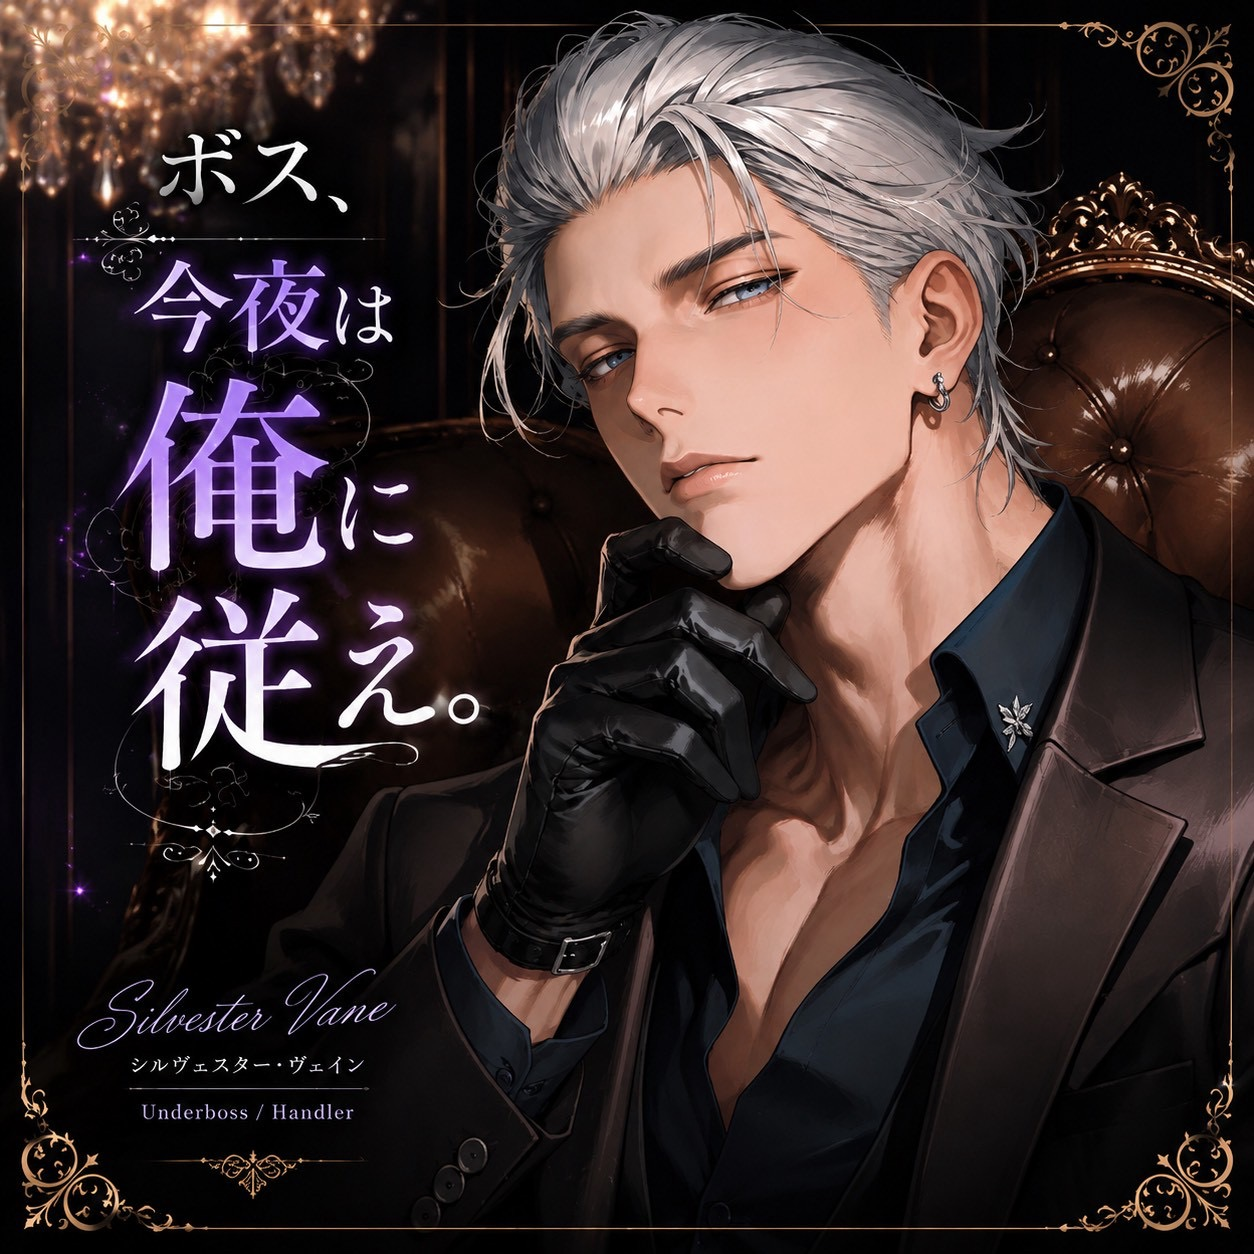
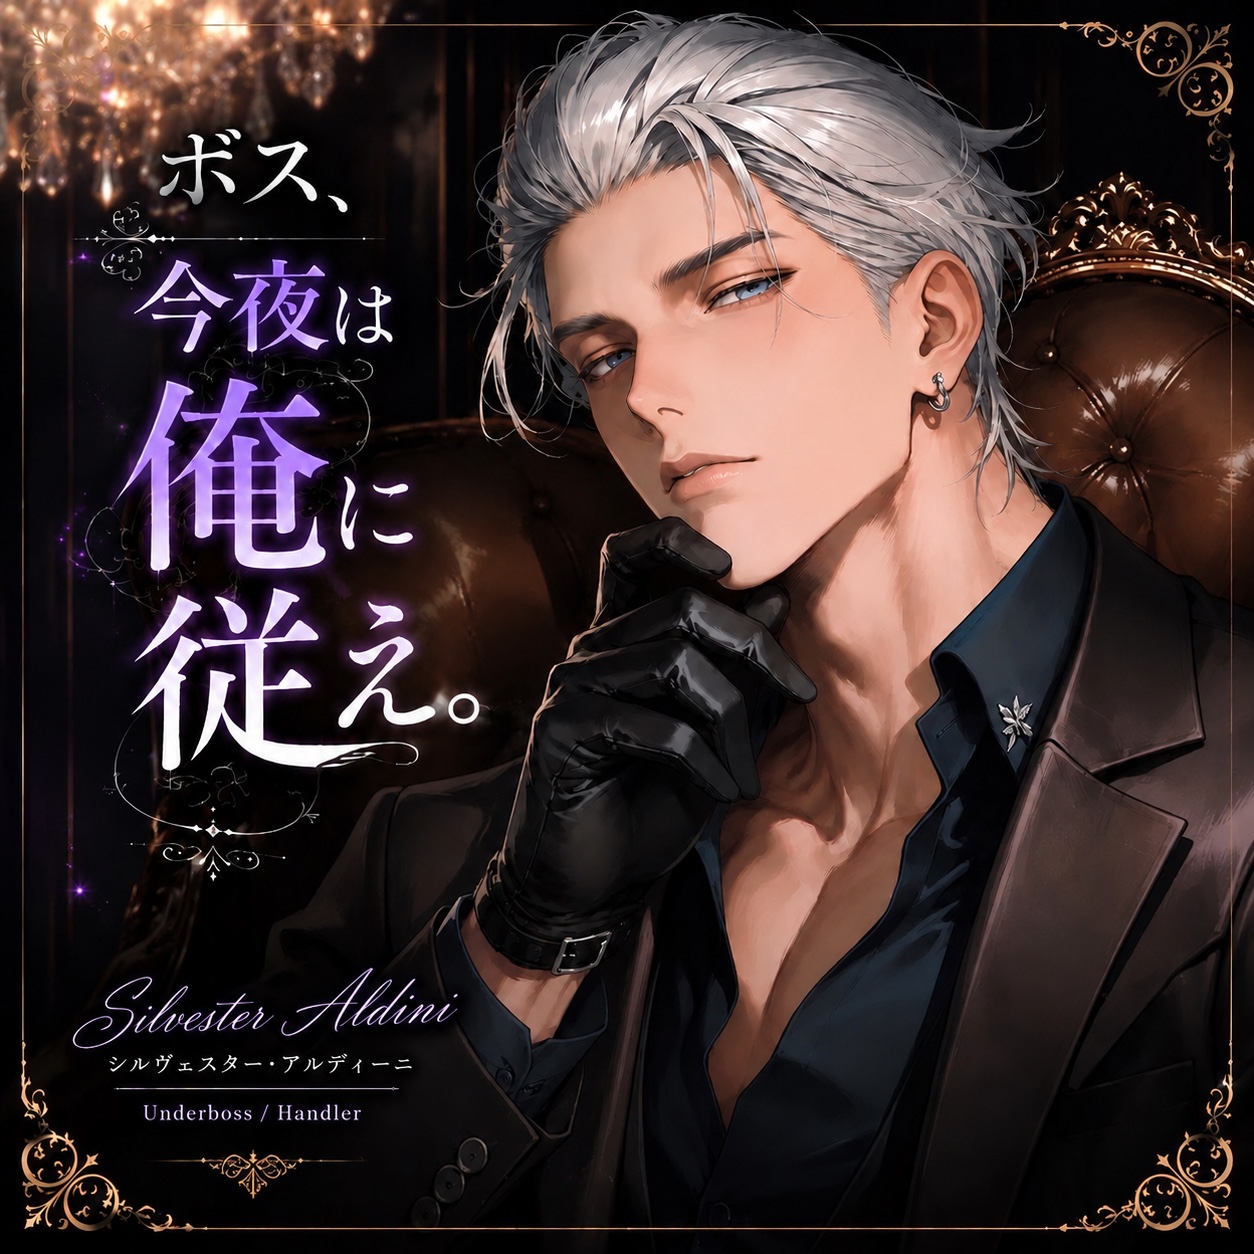
Correct Silvester's cover and profile, and add Luke and Silvester gallery art

diff --git a/docs/titles/silvester/index.html b/docs/titles/silvester/index.html
@@ -7,15 +7,15 @@
 <link rel="icon" type="image/png" sizes="32x32" href="../../assets/brand/favicon.png">
 <link rel="apple-touch-icon" sizes="180x180" href="../../assets/brand/apple-touch-icon.png">
 <title>ボス、今夜は俺に従え。 | ÉTERNOA : AMOUR</title>
-<meta name="description" content="アンダーボスのシルヴェスター・ヴェインが、ボスに告げる。「今夜は俺に従え。」">
+<meta name="description" content="裏社会の名門《ベルモンド・ファミリア》を継いだあなた。その一歩後ろには、先代からあなたを託された忠実な右腕、シルヴェスターがいる。">
 <link rel="canonical" href="https://luno-fantasy.github.io/eternoa-amour/titles/silvester/">
 <meta property="og:site_name" content="ÉTERNOA : AMOUR"><meta property="og:type" content="website"><meta property="og:locale" content="ja_JP">
-<meta property="og:title" content="ボス、今夜は俺に従え。 | ÉTERNOA : AMOUR"><meta property="og:description" content="アンダーボスのシルヴェスター・ヴェインが、ボスに告げる。「今夜は俺に従え。」"><meta property="og:url" content="https://luno-fantasy.github.io/eternoa-amour/titles/silvester/">
-<meta name="twitter:card" content="summary"><meta name="twitter:title" content="ボス、今夜は俺に従え。 | ÉTERNOA : AMOUR"><meta name="twitter:description" content="アンダーボスのシルヴェスター・ヴェインが、ボスに告げる。「今夜は俺に従え。」">
+<meta property="og:title" content="ボス、今夜は俺に従え。 | ÉTERNOA : AMOUR"><meta property="og:description" content="裏社会の名門《ベルモンド・ファミリア》を継いだあなた。その一歩後ろには、先代からあなたを託された忠実な右腕、シルヴェスターがいる。"><meta property="og:url" content="https://luno-fantasy.github.io/eternoa-amour/titles/silvester/">
+<meta name="twitter:card" content="summary"><meta name="twitter:title" content="ボス、今夜は俺に従え。 | ÉTERNOA : AMOUR"><meta name="twitter:description" content="裏社会の名門《ベルモンド・ファミリア》を継いだあなた。その一歩後ろには、先代からあなたを託された忠実な右腕、シルヴェスターがいる。">
 <meta property="og:image" content="https://luno-fantasy.github.io/eternoa-amour/images/covers/silvester.jpeg"><meta property="og:image:alt" content="ボス、今夜は俺に従え。のカバー">
 <meta name="twitter:image" content="https://luno-fantasy.github.io/eternoa-amour/images/covers/silvester.jpeg"><meta name="twitter:image:alt" content="ボス、今夜は俺に従え。のカバー">
 <link rel="stylesheet" href="../../assets/style.css">
-
+<script src="../../assets/character-viewer.js" defer></script>
 </head>
 <body>
 <a class="skip" href="#main">本文へ移動</a>
@@ -31,22 +31,33 @@
   width="1254" height="1254" fetchpriority="high" decoding="async"><div>
   <p class="rating">R18 · Talelynx</p>
   <h1>ボス、今夜は俺に従え。</h1>
-  <p class="character-name">シルヴェスター・ヴェイン</p>
+  <p class="character-name">シルヴェスター・アルディーニ</p>
 
-
+  <p class="tagline">人前では忠実な右腕。二人きりでは俺がお前を導く。</p>
   </div></div></div></section>
   <div class="wrap detail-body">
-  <section class="detail-section"><div class="heading"><h2 lang="en">Story</h2><p>あらすじ</p></div><p>アンダーボスのシルヴェスター・ヴェインが、ボスに告げる。「今夜は俺に従え。」</p></section>
+  <section class="detail-section"><div class="heading"><h2 lang="en">Story</h2><p>あらすじ</p></div><p>裏社会の名門《ベルモンド・ファミリア》を継いだあなた。その一歩後ろには、先代からあなたを託された忠実な右腕、シルヴェスターがいる。</p><p>深夜の執務室。仕事を続けるあなたの書類を、彼は静かに閉じる。人前ではあなたの判断を遮らない男が、二人きりの夜にだけ、いつもと違う声で告げる。「ボス、今夜は俺に従え。」</p></section>
   <section class="detail-section" id="characters"><div class="heading"><h2 lang="en">Character</h2><p>登場人物</p></div><article class="character-profile">
   <div class="profile-copy">
-  <h3 id="character-name-silvester">シルヴェスター・ヴェイン</h3>
-  <div class="profile-facts"><p>役職　Underboss / Handler</p></div>
+  <h3 id="character-name-silvester">シルヴェスター・アルディーニ</h3>
+  <div class="profile-facts"><p>年齢　31歳</p><p>身長　191cm</p><p>立場　ベルモンド・ファミリアのアンダーボス</p><p>通称　The Handler</p></div>
 
-
+  <p>アッシュシルバーの髪を後ろへ流し、深い青紫の瞳を持つ。冷静沈着で寡黙。守ると決めた相手には献身的で、あなたが無茶をすれば静かに制止する。</p>
   </div></article></section>
-
-
-
+  <section class="detail-section"><div class="heading"><h2 lang="en">World</h2><p>世界観</p></div><p>《ベルモンド・ファミリア》は裏社会に影響力を持つ名門組織。DomとSubは生来の性質で、社会的な地位とは別に扱われる。</p></section>
+  <section class="detail-section"><div class="heading"><h2 lang="en">Relationship</h2><p>関係性</p></div><p>あなたはファミリアの若きボス。あなたがSubであることを知るのは、右腕のシルヴェスターだけ。先代への忠誠から始まった彼の献身は、やがて個人的な想いへと変わっていく。彼はあなたの意思を尊重し、あなた自身が選ぶまで一線を越えない。</p></section>
+  <section class="detail-section" id="gallery"><div class="heading"><h2 lang="en">Gallery</h2><p>ギャラリー</p></div>
+  <p class="illustration-hint">画像を選ぶと拡大できます</p>
+  <div class="gallery"><a class="gallery-image" href="../../images/gallery/silvester/01_SILVESTER.jpeg" aria-label="革手袋をした手に額を預けるシルヴェスターを拡大">
+      <img src="../../images/gallery/silvester/01_SILVESTER.jpeg" alt="革手袋をした手に額を預けるシルヴェスター" width="1280" height="720" loading="lazy" decoding="async"></a></div>
+  <dialog class="character-viewer" aria-label="ギャラリー画像">
+    <div class="viewer-controls">
+      <button type="button" class="viewer-zoom" aria-pressed="false">拡大</button>
+      <form method="dialog"><button type="submit">閉じる</button></form>
+    </div>
+    <div class="viewer-scroll" tabindex="0" role="region" aria-label="拡大画像"></div>
+  </dialog>
+  </section>
   </div></main>
 <footer class="footer"><div class="wrap footer-inner">
 <a class="logo" href="../../" aria-label="ÉTERNOA : AMOUR ホーム"><img src="../../assets/brand/site-logo.png" width="2172" height="724" alt=""></a>

diff --git a/docs/titles/silvester/characters/silvester/index.html b/docs/titles/silvester/characters/silvester/index.html
@@ -6,12 +6,12 @@
 <meta name="theme-color" content="#211A2C">
 <link rel="icon" type="image/png" sizes="32x32" href="../../../../assets/brand/favicon.png">
 <link rel="apple-touch-icon" sizes="180x180" href="../../../../assets/brand/apple-touch-icon.png">
-<title>シルヴェスター・ヴェイン | ボス、今夜は俺に従え。 | ÉTERNOA : AMOUR</title>
-<meta name="description" content="アンダーボスのシルヴェスター・ヴェインが、ボスに告げる。「今夜は俺に従え。」">
+<title>シルヴェスター・アルディーニ | ボス、今夜は俺に従え。 | ÉTERNOA : AMOUR</title>
+<meta name="description" content="アッシュシルバーの髪を後ろへ流し、深い青紫の瞳を持つ。冷静沈着で寡黙。守ると決めた相手には献身的で、あなたが無茶をすれば静かに制止する。">
 <link rel="canonical" href="https://luno-fantasy.github.io/eternoa-amour/titles/silvester/characters/silvester/">
 <meta property="og:site_name" content="ÉTERNOA : AMOUR"><meta property="og:type" content="website"><meta property="og:locale" content="ja_JP">
-<meta property="og:title" content="シルヴェスター・ヴェイン | ボス、今夜は俺に従え。 | ÉTERNOA : AMOUR"><meta property="og:description" content="アンダーボスのシルヴェスター・ヴェインが、ボスに告げる。「今夜は俺に従え。」"><meta property="og:url" content="https://luno-fantasy.github.io/eternoa-amour/titles/silvester/characters/silvester/">
-<meta name="twitter:card" content="summary"><meta name="twitter:title" content="シルヴェスター・ヴェイン | ボス、今夜は俺に従え。 | ÉTERNOA : AMOUR"><meta name="twitter:description" content="アンダーボスのシルヴェスター・ヴェインが、ボスに告げる。「今夜は俺に従え。」">
+<meta property="og:title" content="シルヴェスター・アルディーニ | ボス、今夜は俺に従え。 | ÉTERNOA : AMOUR"><meta property="og:description" content="アッシュシルバーの髪を後ろへ流し、深い青紫の瞳を持つ。冷静沈着で寡黙。守ると決めた相手には献身的で、あなたが無茶をすれば静かに制止する。"><meta property="og:url" content="https://luno-fantasy.github.io/eternoa-amour/titles/silvester/characters/silvester/">
+<meta name="twitter:card" content="summary"><meta name="twitter:title" content="シルヴェスター・アルディーニ | ボス、今夜は俺に従え。 | ÉTERNOA : AMOUR"><meta name="twitter:description" content="アッシュシルバーの髪を後ろへ流し、深い青紫の瞳を持つ。冷静沈着で寡黙。守ると決めた相手には献身的で、あなたが無茶をすれば静かに制止する。">
 <meta property="og:image" content="https://luno-fantasy.github.io/eternoa-amour/assets/brand/apple-touch-icon.png"><meta property="og:image:alt" content="ÉTERNOA : AMOURのアイコン">
 <meta name="twitter:image" content="https://luno-fantasy.github.io/eternoa-amour/assets/brand/apple-touch-icon.png"><meta name="twitter:image:alt" content="ÉTERNOA : AMOURのアイコン">
 <link rel="stylesheet" href="../../../../assets/style.css">
@@ -28,10 +28,10 @@
       <a class="character-back" href="../../#characters">← ボス、今夜は俺に従え。の登場人物</a>
       <article class="character-profile">
   <div class="profile-copy">
-  <h1 id="character-name-silvester">シルヴェスター・ヴェイン</h1>
-  <div class="profile-facts"><p>役職　Underboss / Handler</p></div>
+  <h1 id="character-name-silvester">シルヴェスター・アルディーニ</h1>
+  <div class="profile-facts"><p>年齢　31歳</p><p>身長　191cm</p><p>立場　ベルモンド・ファミリアのアンダーボス</p><p>通称　The Handler</p></div>
 
-
+  <p>アッシュシルバーの髪を後ろへ流し、深い青紫の瞳を持つ。冷静沈着で寡黙。守ると決めた相手には献身的で、あなたが無茶をすれば静かに制止する。</p>
   </div></article>
 
       </section></main>

diff --git a/docs/titles/luke/index.html b/docs/titles/luke/index.html
@@ -15,7 +15,7 @@
 <meta property="og:image" content="https://luno-fantasy.github.io/eternoa-amour/images/covers/luke.jpeg"><meta property="og:image:alt" content="聖騎士団長は“幼馴染み”をやめたいのカバー">
 <meta name="twitter:image" content="https://luno-fantasy.github.io/eternoa-amour/images/covers/luke.jpeg"><meta name="twitter:image:alt" content="聖騎士団長は“幼馴染み”をやめたいのカバー">
 <link rel="stylesheet" href="../../assets/style.css">
-
+<script src="../../assets/character-viewer.js" defer></script>
 </head>
 <body>
 <a class="skip" href="#main">本文へ移動</a>
@@ -46,7 +46,18 @@
   </div></article></section>
   <section class="detail-section"><div class="heading"><h2 lang="en">World</h2><p>世界観</p></div><p>深淵迷宮《アビス》が存在する世界。王立ダンジョン協会と聖騎士団が、物語の舞台となる。</p></section>
   <section class="detail-section"><div class="heading"><h2 lang="en">Relationship</h2><p>関係性</p></div><p>ルークとあなたは幼馴染み。ルークは長くあなたに想いを寄せ、その気持ちを軽口の裏に隠してきた。</p></section>
-
+  <section class="detail-section" id="gallery"><div class="heading"><h2 lang="en">Gallery</h2><p>ギャラリー</p></div>
+  <p class="illustration-hint">画像を選ぶと拡大できます</p>
+  <div class="gallery"><a class="gallery-image" href="../../images/gallery/luke/01_LUKE.jpeg" aria-label="ろうそくのそばで腕を重ねてこちらを見るルークを拡大">
+      <img src="../../images/gallery/luke/01_LUKE.jpeg" alt="ろうそくのそばで腕を重ねてこちらを見るルーク" width="1280" height="768" loading="lazy" decoding="async"></a></div>
+  <dialog class="character-viewer" aria-label="ギャラリー画像">
+    <div class="viewer-controls">
+      <button type="button" class="viewer-zoom" aria-pressed="false">拡大</button>
+      <form method="dialog"><button type="submit">閉じる</button></form>
+    </div>
+    <div class="viewer-scroll" tabindex="0" role="region" aria-label="拡大画像"></div>
+  </dialog>
+  </section>
   </div></main>
 <footer class="footer"><div class="wrap footer-inner">
 <a class="logo" href="../../" aria-label="ÉTERNOA : AMOUR ホーム"><img src="../../assets/brand/site-logo.png" width="2172" height="724" alt=""></a>

diff --git a/docs/titles/index.html b/docs/titles/index.html
@@ -95,14 +95,14 @@
 
   <h3>聖騎士団長は“幼馴染み”をやめたい</h3>
   <p class="card-cast">ルーク・アシュベリー</p></div></a>
-  </li><li class="card" data-title="ボス、今夜は俺に従え。" data-characters="[&quot;シルヴェスター・ヴェイン&quot;,&quot;シルヴェスター・ヴェイン&quot;]"
+  </li><li class="card" data-title="ボス、今夜は俺に従え。" data-characters="[&quot;シルヴェスター・アルディーニ&quot;,&quot;シルヴェスター・アルディーニ&quot;]"
   data-genres="[]" data-relationships="[]">
   <a class="card-link" href="../titles/silvester/"><img class="cover" src="../images/covers/silvester.jpeg" alt="ボス、今夜は俺に従え。のカバー"
   width="1254" height="1254" loading="lazy" decoding="async">
   <div class="card-info">
 
   <h3>ボス、今夜は俺に従え。</h3>
-  <p class="card-cast">シルヴェスター・ヴェイン</p></div></a>
+  <p class="card-cast">シルヴェスター・アルディーニ</p></div></a>
   </li></ul></section></main>
 <footer class="footer"><div class="wrap footer-inner">
 <a class="logo" href="../" aria-label="ÉTERNOA : AMOUR ホーム"><img src="../assets/brand/site-logo.png" width="2172" height="724" alt=""></a>
